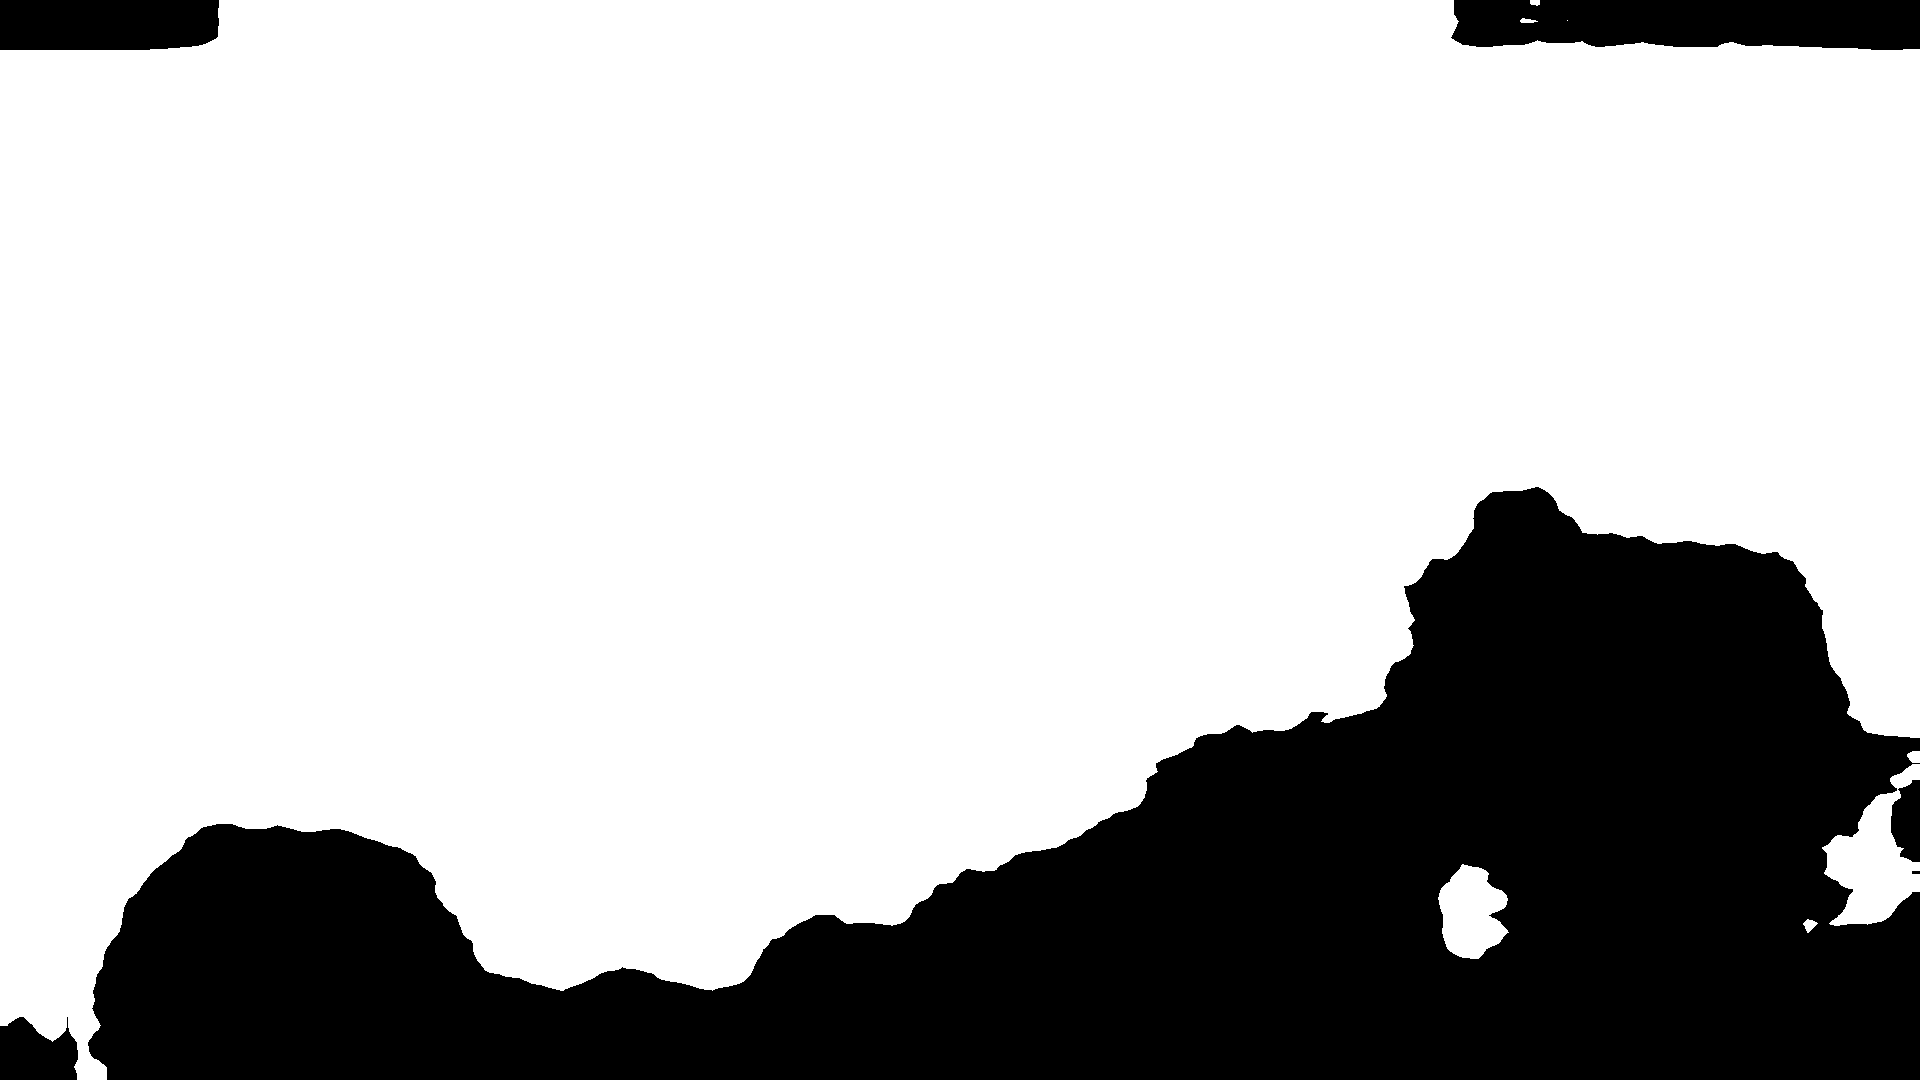
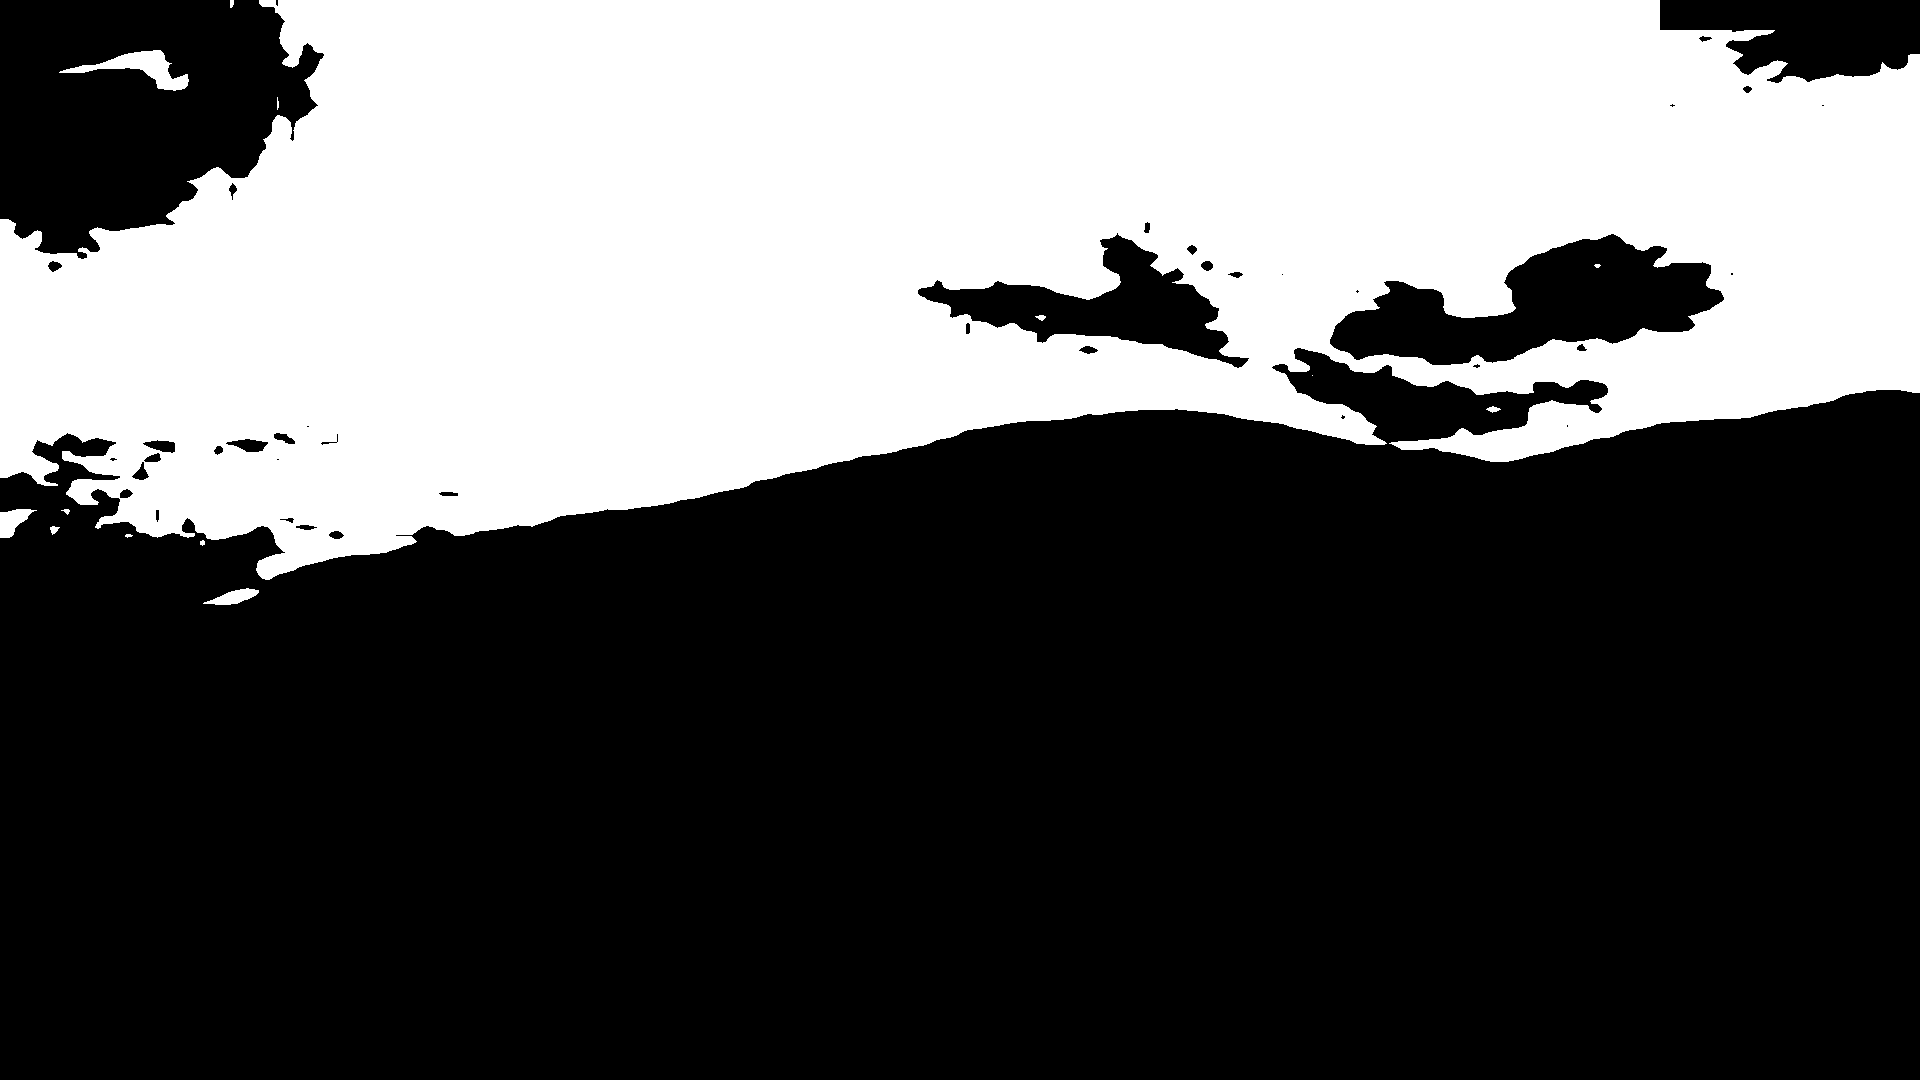
Switch webcam to Taylors Mistake Beach (Burwood cam froze)
The Coastal Burwood Windy cam (1672279274) stopped pushing frames at
2026-05-29 10:34 NZ — every capture since was byte-identical. Switched
primary to Taylors Mistake Beach (1623991479), which is live.

- Worker WEBCAM_URL updated; Burwood kept as WEBCAM_STANDBY_URL
- Regenerated sky mask for the new camera view (sky is top ~56%,
  headland/ocean/beach below correctly excluded)
- Updated webcam image URL + label in index.html

diff --git a/index.html b/index.html
@@ -325,11 +325,11 @@
         <div class="webcam-stack">
           <img id="webcam-img"
                crossorigin="anonymous"
-               src="https://imgproxy.windy.com/_/full/plain/current/1672279274/original.jpg"
-               alt="Christchurch webcam — Coastal Burwood">
+               src="https://imgproxy.windy.com/_/full/plain/current/1623991479/original.jpg"
+               alt="Christchurch webcam — Taylors Mistake Beach">
           <canvas id="overlay-canvas"></canvas>
         </div>
-        <p class="webcam-label">Coastal Burwood, Christchurch — via Windy</p>
+        <p class="webcam-label">Taylors Mistake Beach, Christchurch — via Windy</p>
       </div>
 
       <div class="webcam-controls">
@@ -350,7 +350,7 @@
 
 <footer>
   <p>Forecast data: <a href="https://www.metservice.com" target="_blank">MetService NZ</a>
-     &middot; Webcam: <a href="https://www.windy.com/-Webcams/webcams/1672279274" target="_blank">Windy</a>
+     &middot; Webcam: <a href="https://www.windy.com/-Webcams/webcams/1623991479" target="_blank">Windy</a>
      &middot; Cloud classification: <a href="https://github.com/marcosPlaza/Ground-based-Cloud-Classification-with-Deep-Learning" target="_blank">CCSN</a></p>
 </footer>
 
@@ -708,7 +708,7 @@
   // --- Webcam refresh ---
   const webcamImg = document.getElementById('webcam-img');
   document.getElementById('refresh-btn').addEventListener('click', () => {
-    const baseUrl = 'https://imgproxy.windy.com/_/full/plain/current/1672279274/original.jpg';
+    const baseUrl = 'https://imgproxy.windy.com/_/full/plain/current/1623991479/original.jpg';
     webcamImg.src = baseUrl + '?t=' + Date.now();
     webcamImg.onload = () => classifyWebcam();
   });

diff --git a/scripts/generate_sky_mask.py b/scripts/generate_sky_mask.py
@@ -73,11 +73,11 @@ def main() -> None:
         "height": int(ys.max() - ys.min() + 1),
     }
 
-    # Mask out watermark areas (top-left "WizzCam", top-right timestamp)
+    # Mask out watermark areas (top-left cam name, top-right timestamp)
     # These are roughly top 30px and known regions
     pre_count = sky_pixels
-    sky_mask[:50, :150] = 0   # WizzCam logo top-left
-    sky_mask[:30, -180:] = 0  # Timestamp top-right
+    sky_mask[:30, :230] = 0   # "Taylors Mistake Cam 01" logo top-left
+    sky_mask[:30, -260:] = 0  # Timestamp top-right
     post_count = int((sky_mask > 0).sum())
     print(f"  Removed {pre_count - post_count} pixels for watermark/timestamp")
 
